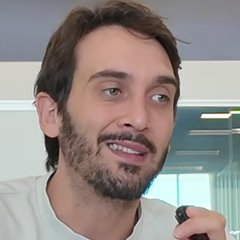
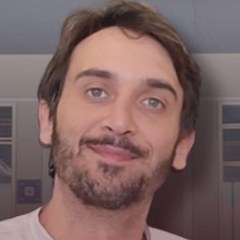
Retratos de los testimonios sacados de la portada de cada vídeo en YouTube

diff --git a/app/casos/casos.ts b/app/casos/casos.ts
@@ -57,7 +57,11 @@ export function portada(caso: Caso): string {
   return `/casos/${caso.slug}.jpg`;
 }
 
-/** Retrato cuadrado (240×240) recortado de la portada, para el círculo del testimonio. */
+/**
+ * Retrato cuadrado (240×240) para el círculo del testimonio. Sale de la
+ * portada del vídeo en YouTube (https://i.ytimg.com/vi/{id}/maxresdefault.jpg),
+ * recortando la cara por encima del rótulo «Caso de éxito».
+ */
 export function retrato(caso: Caso): string {
   return `/casos/${caso.slug}-retrato.jpg`;
 }
